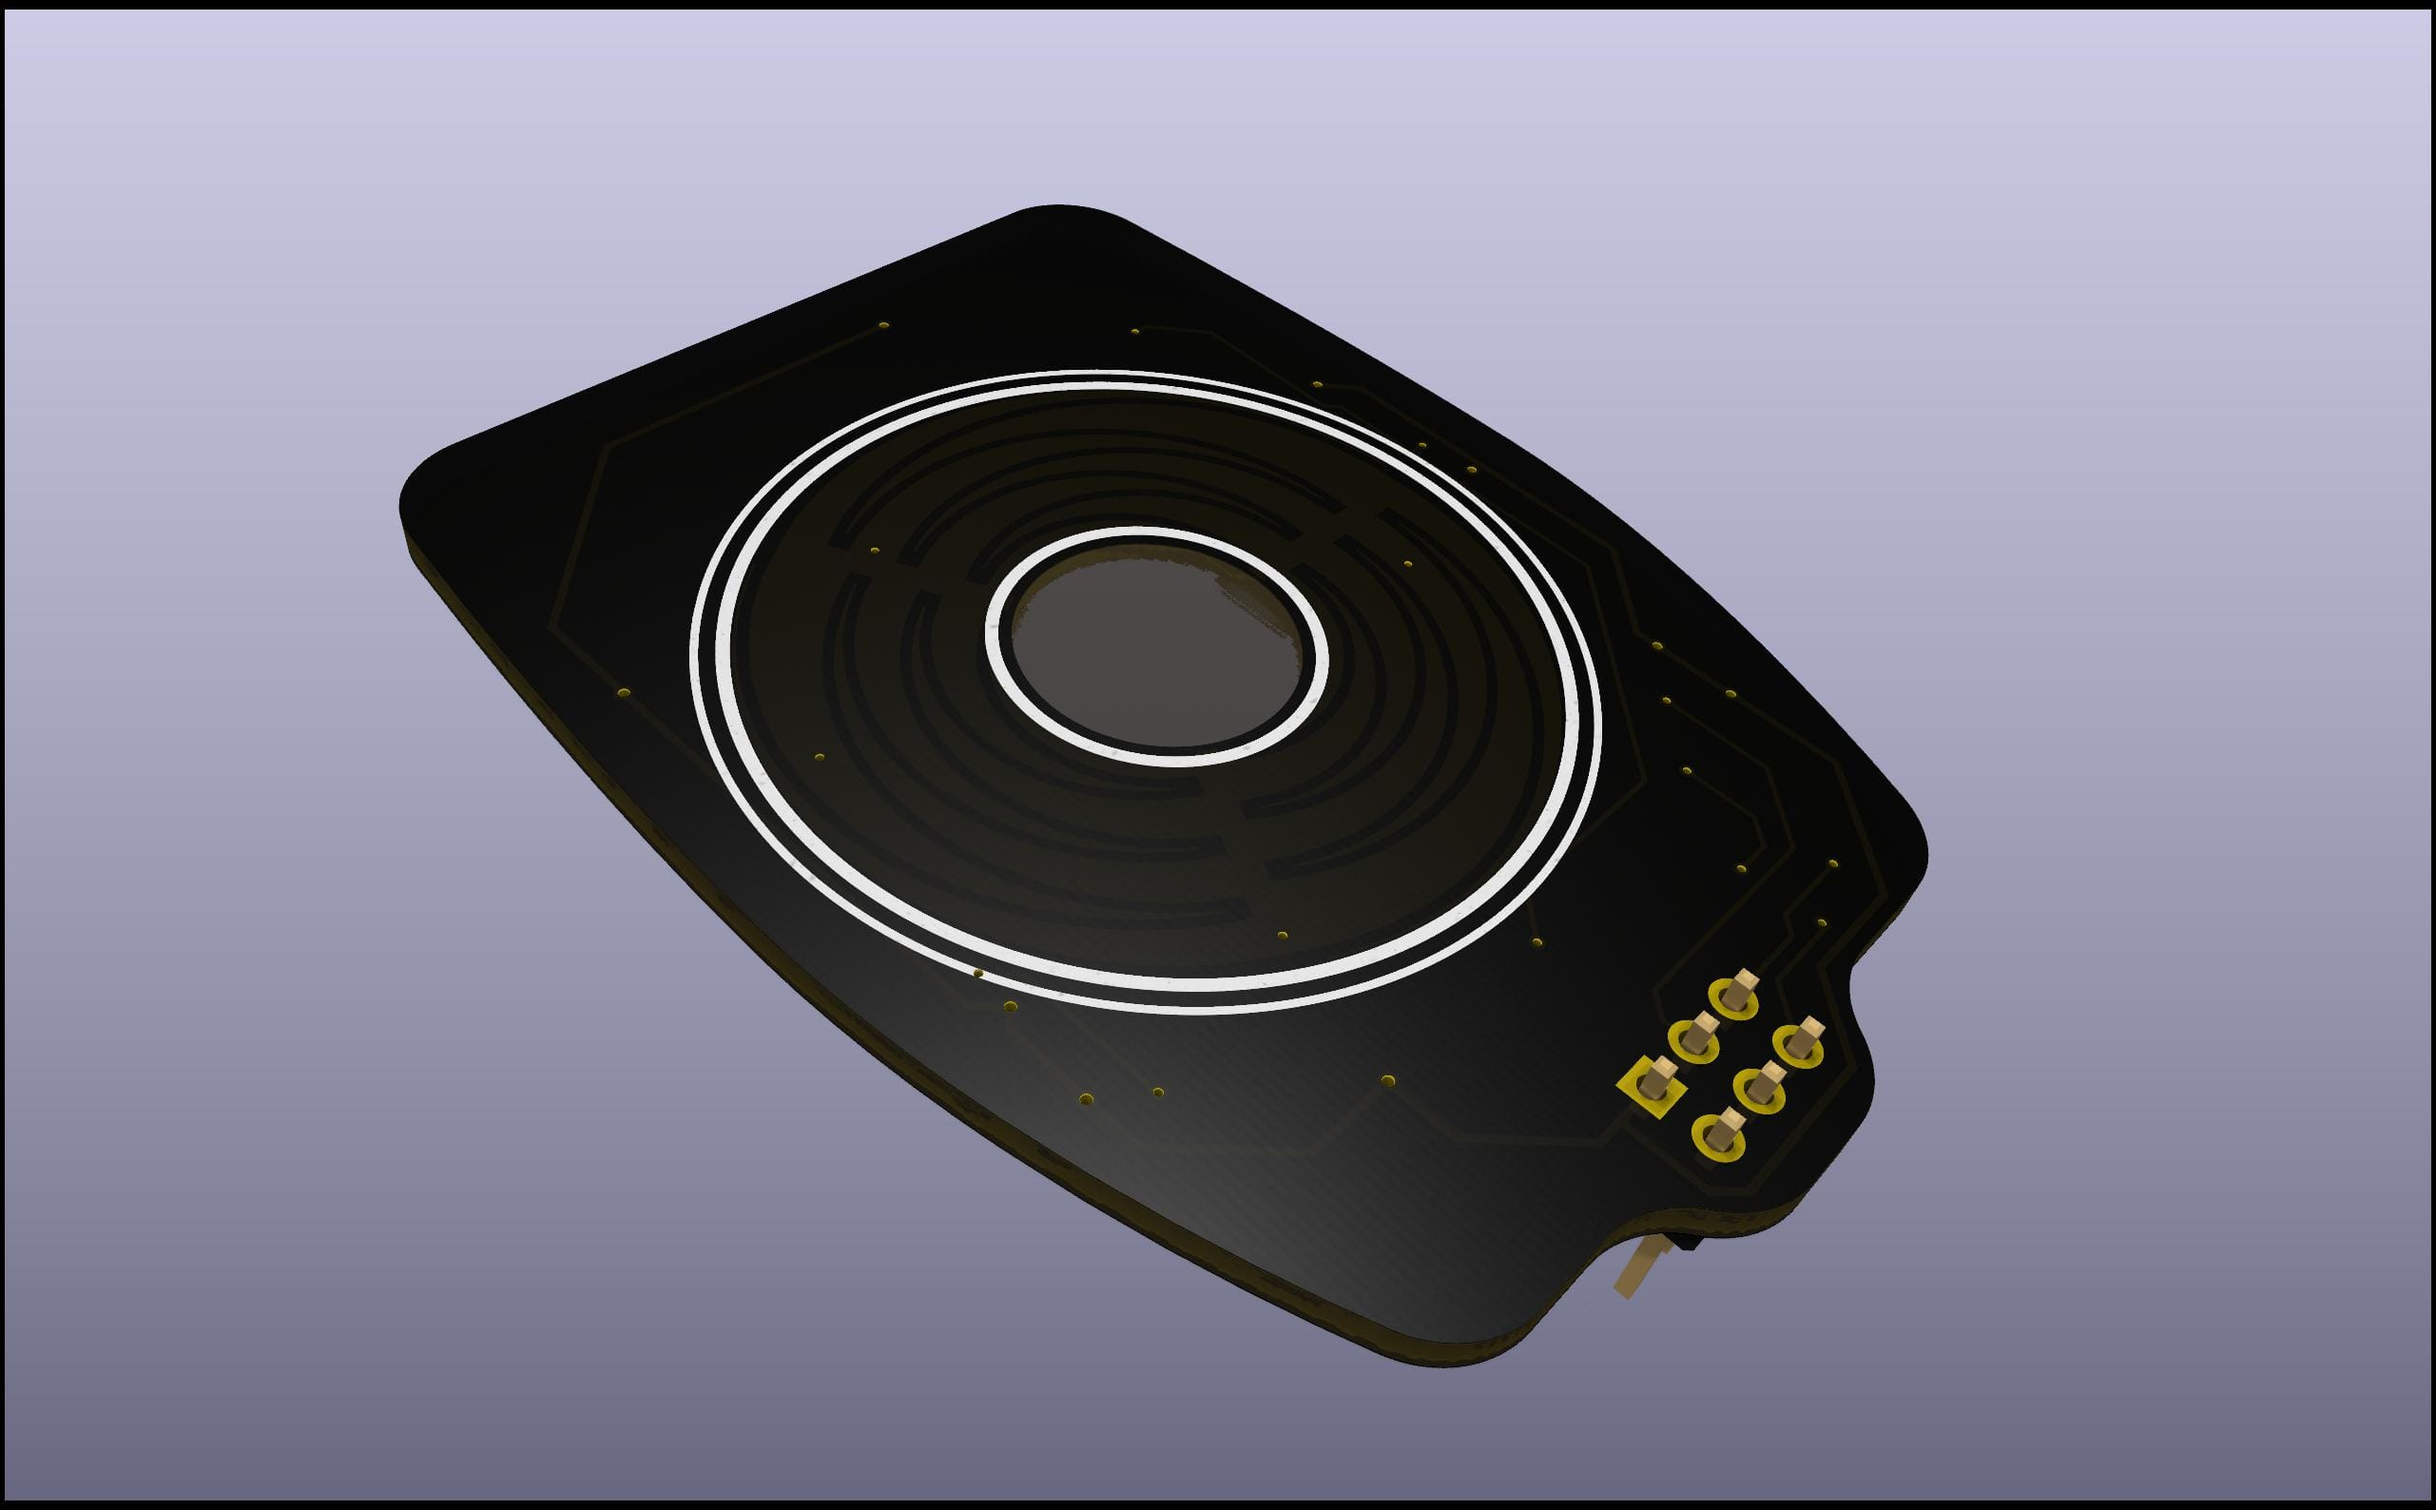
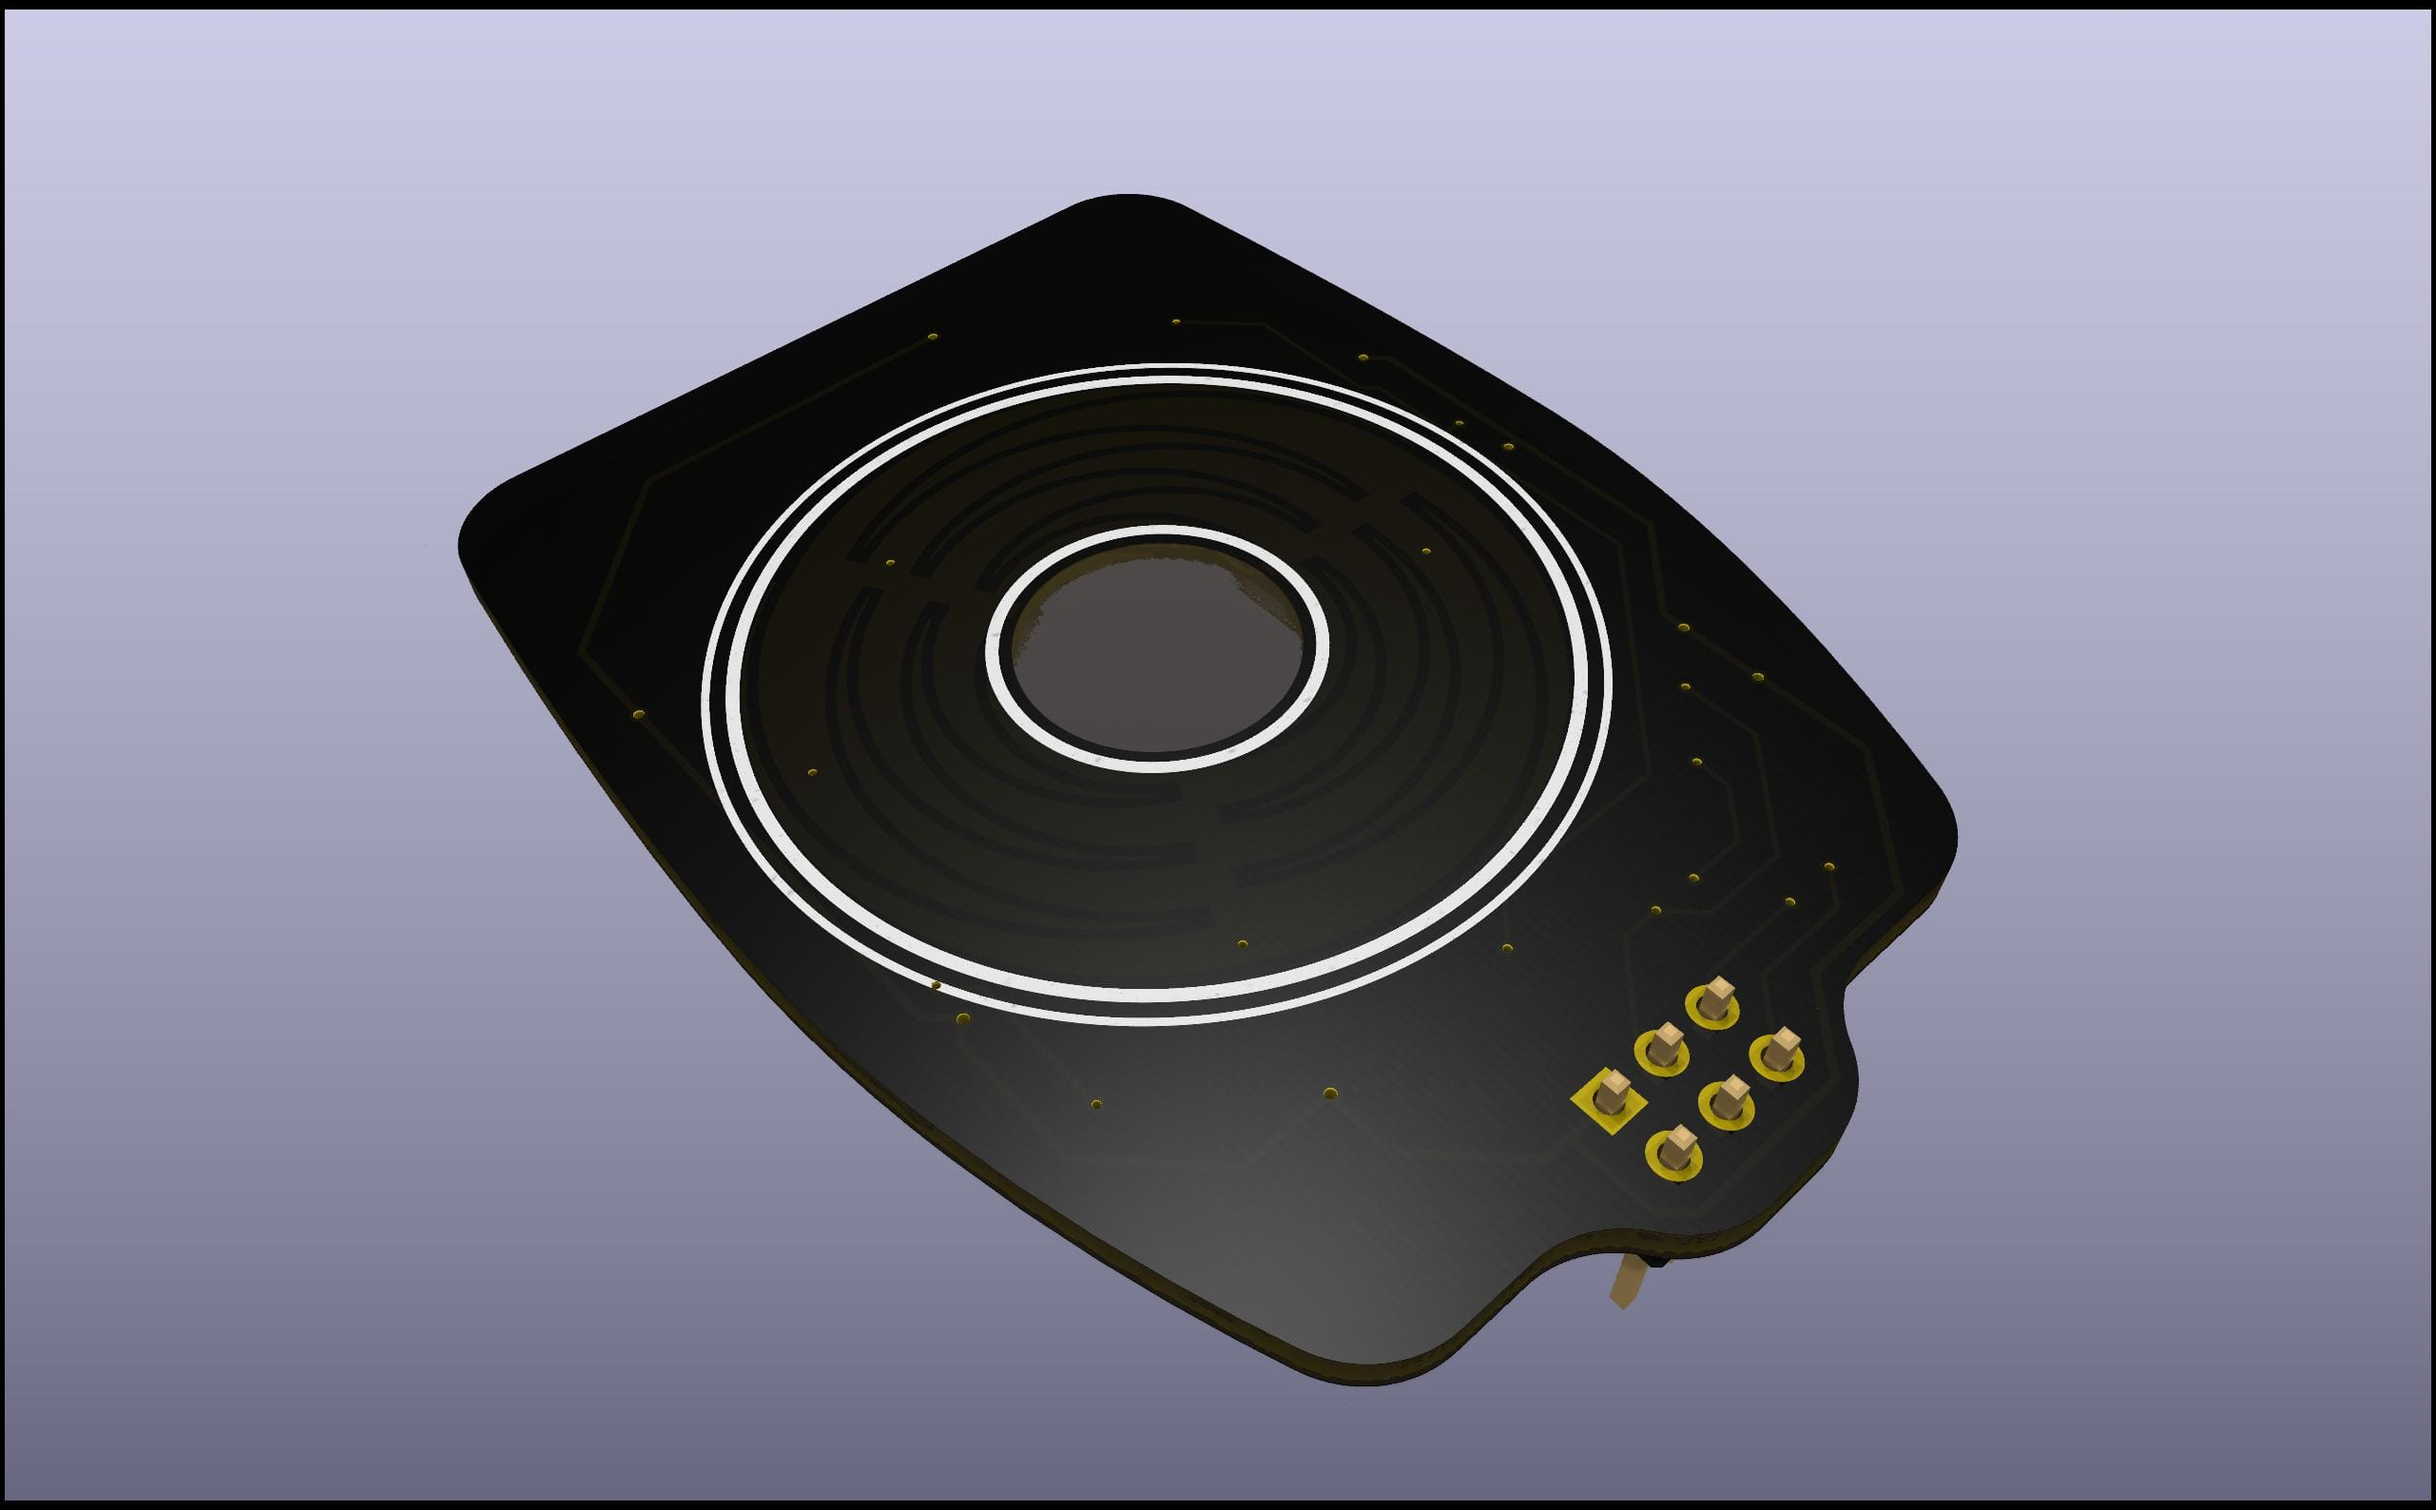
update renders to show QFN

diff --git a/README.md b/README.md
@@ -38,6 +38,6 @@ https://github.com/user-attachments/assets/c628ba94-1a07-43ad-b761-b3852f8f35f7
 * Related to [touchwheel0](https://github.com/todbot/touchwheels)
 * Uses ATtiny816, using [megaTinyCore](https://github.com/SpenceKonde/megaTinyCore) for Arduino
 * 9Sep2024: Originally designed for QFN, but SOIC requested. ATtiny816 comes in hilariously wide SOIC
-* 16Sep2024: Back to QFN for ATtiny816 for JLC assembly. Renders are out of date
+* 16Sep2024: Back to QFN for ATtiny816 for JLC assembly.
 * 16Sep2024: SAO header must be hand switched to be same side ("top") as SMD in positions.csv for JLC to assemble it correctly
 
